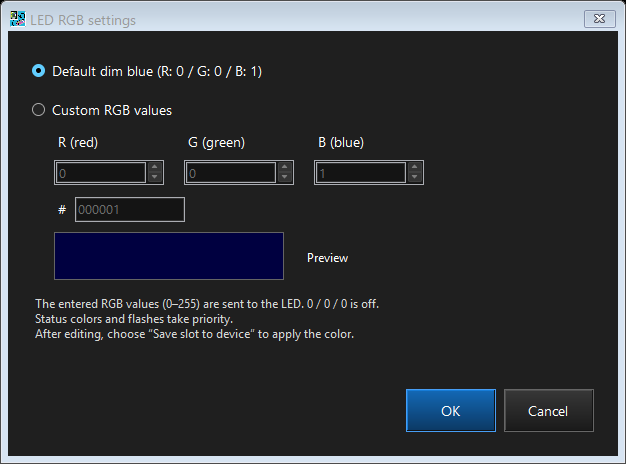
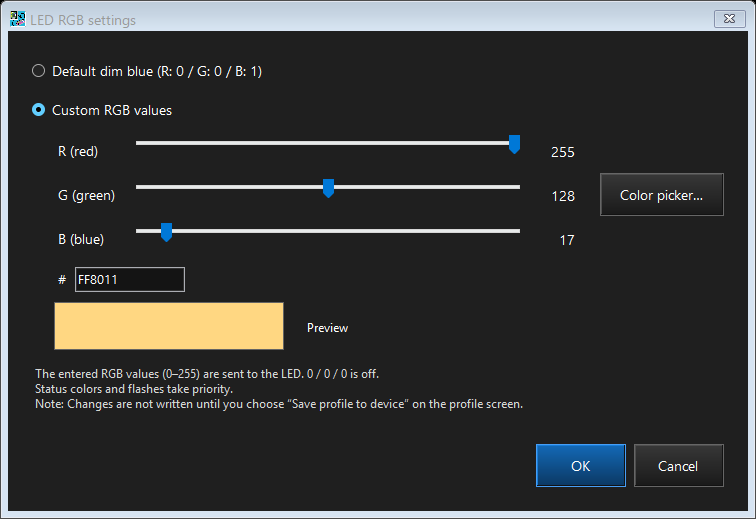
Replace LED RGB spinners with sliders and add a color picker
- Arrange R, G, and B in three horizontal rows, each with a slider and
  numeric readout covering the full 0–255 range.
- Add a "Color picker..." button on the right that opens the Windows
  color chooser with the current RGB values.
- Synchronize accepted colors across sliders, numeric readouts,
  hexadecimal input, and the existing LED preview.
- Preserve the current values when the color picker is cancelled.
- Keep custom controls disabled in default-color mode while maintaining
  readable numeric values and accessible channel labels.
- Adjust the dialog layout for the new controls and retain the shared
  profile-save reminder.
- Update existing LED checks, documentation, and the reference screenshot.

Settings remain a draft until "Save profile to device" is selected.
Firmware, stored RGB values, and the preview correction are unchanged.

Validation:
- 316 Japanese/English LED checks passed.
- 26,370 simulated DPI/layout checks passed.
- Verified native color selection, cancellation, and slider dragging
  through the preview UI.
- Visually inspected Japanese and English dialog captures.

diff --git a/gui/ControllerBridge/LedRgbDialog.cs b/gui/ControllerBridge/LedRgbDialog.cs
@@ -6,30 +6,42 @@ internal sealed partial class LedRgbDialog : Form
 {
     private readonly RadioButton standard = new() { Text = L.T("標準の暗い青（R: 0 / G: 0 / B: 1）", "Default dim blue (R: 0 / G: 0 / B: 1)"), AutoSize = true, Margin = new(4, 8, 4, 8) };
     private readonly RadioButton custom = new() { Text = L.T("RGB値を指定", "Custom RGB values"), AutoSize = true, Margin = new(4, 8, 4, 8) };
-    private readonly NumericUpDown[] values = Enumerable.Range(0, 3).Select(_ => new NumericUpDown { Minimum = 0, Maximum = 255, Width = 110, Anchor = AnchorStyles.Left, Margin = new(4, 6, 16, 6) }).ToArray();
+    private readonly TrackBar[] values = Enumerable.Range(0, 3).Select(_ => new TrackBar {
+        Minimum = 0, Maximum = 255, SmallChange = 1, LargeChange = 16, TickStyle = TickStyle.None,
+        AutoSize = false, Height = 36, Dock = DockStyle.Fill, BackColor = Ui.Background, Margin = new(4, 4, 8, 4)
+    }).ToArray();
+    private readonly Label[] valueLabels = Enumerable.Range(0, 3).Select(_ => Ui.Label("0")).ToArray();
     private readonly TextBox hex = new() { Width = 110, CharacterCasing = CharacterCasing.Upper, MaxLength = 0, Margin = new(0, 6, 12, 6), AccessibleName = L.T("RGBカラーコード（6桁）", "RGB color code (6 digits)") };
     private readonly Label hexError = Ui.Label("", 9);
     private readonly Panel swatch = new() { Width = 230, Height = 48, BorderStyle = BorderStyle.FixedSingle, Margin = new(4, 4, 16, 8) };
-    private readonly Button accept, cancel;
+    private readonly Button accept, cancel, colorPicker;
     private bool updating;
 
     public LedRgbDialog(DeviceProfile profile)
     {
-        using IDisposable formLayout = Ui.Form(this, L.T("LED RGB設定", "LED RGB settings"), new(610, 425));
+        using IDisposable formLayout = Ui.Form(this, L.T("LED RGB設定", "LED RGB settings"), new(740, 480));
         FormBorderStyle = FormBorderStyle.FixedDialog; MaximizeBox = MinimizeBox = false; DoubleBuffered = true;
         BufferedTableLayoutPanel root = new() { Dock = DockStyle.Fill, Padding = new(20), ColumnCount = 1, RowCount = 7 };
         root.ColumnStyles.Add(new(SizeType.Percent, 100));
         for (int i = 0; i < 6; i++) root.RowStyles.Add(new(SizeType.AutoSize));
         root.RowStyles.Add(new(SizeType.Percent, 100));
         root.Controls.Add(standard, 0, 0); root.Controls.Add(custom, 0, 1);
-        BufferedTableLayoutPanel channels = new() { AutoSize = true, ColumnCount = 3, RowCount = 2, Margin = new(22, 0, 0, 0) };
+        BufferedTableLayoutPanel colorControls = new() { AutoSize = true, Dock = DockStyle.Fill, ColumnCount = 2, RowCount = 1, Margin = Padding.Empty };
+        colorControls.ColumnStyles.Add(new(SizeType.Percent, 100)); colorControls.ColumnStyles.Add(new(SizeType.AutoSize));
+        BufferedTableLayoutPanel channels = new() { AutoSize = true, Dock = DockStyle.Fill, ColumnCount = 3, RowCount = 3, Margin = new(22, 0, 12, 0) };
+        channels.ColumnStyles.Add(new(SizeType.AutoSize)); channels.ColumnStyles.Add(new(SizeType.Percent, 100)); channels.ColumnStyles.Add(new(SizeType.Absolute, 48));
         string[] names = [L.T("R（赤）", "R (red)"), L.T("G（緑）", "G (green)"), L.T("B（青）", "B (blue)")];
         for (int i = 0; i < 3; i++)
         {
-            channels.ColumnStyles.Add(new(SizeType.AutoSize)); channels.Controls.Add(Ui.Label(names[i], 10), i, 0);
-            values[i].AccessibleName = names[i]; channels.Controls.Add(values[i], i, 1); values[i].ValueChanged += (_, _) => UpdatePreview();
+            channels.RowStyles.Add(new(SizeType.AutoSize));
+            Label name = Ui.Label(names[i]); name.Anchor = AnchorStyles.Left; channels.Controls.Add(name, 0, i);
+            values[i].AccessibleName = names[i]; channels.Controls.Add(values[i], 1, i); values[i].ValueChanged += (_, _) => UpdatePreview();
+            valueLabels[i].AutoSize = false; valueLabels[i].Size = new(40, 26); valueLabels[i].Anchor = AnchorStyles.Right;
+            valueLabels[i].TextAlign = ContentAlignment.MiddleRight;
+            channels.Controls.Add(valueLabels[i], 2, i);
         }
-        root.Controls.Add(channels, 0, 2);
+        colorPicker = Ui.Button(L.T("カラーピッカー…", "Color picker…"), (_, _) => ChooseColor()); colorPicker.Anchor = AnchorStyles.Right;
+        colorControls.Controls.Add(channels, 0, 0); colorControls.Controls.Add(colorPicker, 1, 0); root.Controls.Add(colorControls, 0, 2);
         FlowLayoutPanel code = new() { AutoSize = true, WrapContents = false, Margin = new(22, 0, 0, 0) };
         Label prefix = Ui.Label("#", 10); prefix.Anchor = AnchorStyles.Left;
         hex.Anchor = AnchorStyles.Left; hexError.Anchor = AnchorStyles.Left; hexError.ForeColor = Color.FromArgb(255, 180, 180);
@@ -57,6 +69,15 @@ internal sealed partial class LedRgbDialog : Form
     {
         if (custom.Checked && !TryReadHex(out _)) throw new InvalidDataException(L.T("RGBコードは6桁の16進数で入力してください。", "Enter the RGB code as 6 hexadecimal digits."));
         profile.SetLedColor(custom.Checked, (byte)values[0].Value, (byte)values[1].Value, (byte)values[2].Value);
+    }
+    private void ChooseColor()
+    {
+        using ColorDialog picker = new() { FullOpen = true, AnyColor = true, Color = Color.FromArgb(values[0].Value, values[1].Value, values[2].Value) };
+        if (picker.ShowDialog(this) != DialogResult.OK) return;
+        updating = true;
+        try { values[0].Value = picker.Color.R; values[1].Value = picker.Color.G; values[2].Value = picker.Color.B; }
+        finally { updating = false; }
+        UpdatePreview();
     }
     private bool TryReadHex(out int rgb)
     {
@@ -90,8 +111,14 @@ internal sealed partial class LedRgbDialog : Form
         updating = true;
         try
         {
-            foreach (NumericUpDown value in values) value.Enabled = custom.Checked;
-            hex.Enabled = custom.Checked;
+            for (int i = 0; i < values.Length; i++)
+            {
+                values[i].Enabled = custom.Checked;
+                valueLabels[i].ForeColor = custom.Checked ? Ui.Ink : Ui.Muted;
+                valueLabels[i].Text = values[i].Value.ToString(CultureInfo.InvariantCulture);
+                valueLabels[i].AccessibleName = values[i].AccessibleName + L.T(" の値: ", " value: ") + valueLabels[i].Text;
+            }
+            hex.Enabled = colorPicker.Enabled = custom.Checked;
             int red = custom.Checked ? (int)values[0].Value : 0, green = custom.Checked ? (int)values[1].Value : 0, blue = custom.Checked ? (int)values[2].Value : 1;
             if (syncHex) hex.Text = $"{red:X2}{green:X2}{blue:X2}";
             swatch.BackColor = LedPreview.Color((byte)red, (byte)green, (byte)blue);

diff --git a/gui/ControllerBridge/LedRgbChecks.cs b/gui/ControllerBridge/LedRgbChecks.cs
@@ -91,15 +91,15 @@ internal sealed partial class LedRgbDialog
         }
         check(dialog.standard.Checked && dialog.values.All(v => !v.Enabled) && !dialog.hex.Enabled && dialog.hex.Text == "000001", "default controls retain dim blue and disable custom entry");
         check(dialog.swatch.BackColor.ToArgb() == Color.FromArgb(0, 0, 64).ToArgb(), "fixed gamma 4 lifts default blue 1 to display 64");
-        check(dialog.hex.PointToScreen(Point.Empty).Y >= dialog.values[0].PointToScreen(new Point(0, dialog.values[0].Height)).Y, "hex entry is directly below the RGB spinners");
+        check(dialog.hex.PointToScreen(Point.Empty).Y >= dialog.values[2].PointToScreen(new Point(0, dialog.values[2].Height)).Y, "hex entry is directly below all three RGB slider rows");
         Capture("led-default.png");
         dialog.CheckSetColor(255, 128, 17);
         check(dialog.values.All(v => v.Enabled && v.Minimum == 0 && v.Maximum == 255), "all channels accept 0 through 255");
-        check(dialog.hex.Text == "FF8011" && dialog.hex.Enabled, "spinner edits synchronize the six-digit uppercase code");
+        check(dialog.hex.Text == "FF8011" && dialog.hex.Enabled, "slider edits synchronize the six-digit uppercase code");
         check(dialog.swatch.BackColor.ToArgb() == Color.FromArgb(255, 215, 130).ToArgb(), "fixed approximation converts unequal RGB channels independently");
         Capture("led-custom.png");
         dialog.hex.SelectAll(); dialog.hex.Paste("000004");
-        check(dialog.values[0].Value == 0 && dialog.values[1].Value == 0 && dialog.values[2].Value == 4 && dialog.accept.Enabled, "pasting 000004 updates all three spinners");
+        check(dialog.values[0].Value == 0 && dialog.values[1].Value == 0 && dialog.values[2].Value == 4 && dialog.accept.Enabled, "pasting 000004 updates all three sliders");
         check(dialog.swatch.BackColor.ToArgb() == Color.FromArgb(0, 0, 90).ToArgb(), "pasted low blue uses fixed gamma 4");
         Capture("led-hex.png");
         DeviceProfile unchanged = original.Clone(); dialog.ApplyTo(unchanged);
@@ -120,7 +120,7 @@ internal sealed partial class LedRgbDialog
         }
         Capture("led-invalid.png");
         dialog.values[0].Value = 1;
-        check(dialog.hex.Text == "01CDEF" && dialog.accept.Enabled && dialog.hexError.Text == "", "editing a spinner replaces an invalid draft with a valid synchronized code");
+        check(dialog.hex.Text == "01CDEF" && dialog.accept.Enabled && dialog.hexError.Text == "", "editing a slider replaces an invalid draft with a valid synchronized code");
         dialog.standard.Checked = true;
         DeviceProfile applied = original.Clone(); dialog.ApplyTo(applied);
         check(applied.SameContent(original), "default selection clears custom data and preserves the profile");

diff --git a/docs/configurator-guide.md b/docs/configurator-guide.md
@@ -67,15 +67,17 @@ The window retains the latest 2,000 rows and reports how many older rows were di
 
 ### LED color
 
-Select a profile, then choose **LED RGB settings** directly below **Delete profile**. **Default dim blue** retains the original ready color and brightness: R=0, G=0, B=1. Choose **Custom RGB values** to enter each channel from 0 to 255. The channel values are sent directly, without brightness scaling or RGB565 quantization. R=0, G=0, B=0 turns off the ready LED.
+Select a profile, then choose **LED RGB settings** directly below **Delete profile**. **Default dim blue** retains the original ready color and brightness: R=0, G=0, B=1. Choose **Custom RGB values** to adjust R, G and B on three horizontal slider rows, each with a numeric readout from 0 to 255. The channel values are sent directly, without brightness scaling or RGB565 quantization. R=0, G=0, B=0 turns off the ready LED.
 
 **OK** changes the selected draft; **Cancel** leaves it unchanged. Choose **Save profile to device** to persist it. The color is shown when that profile is active, input is received, and the output host is ready. Browsing another slot does not change the hardware color. Error, save, waiting, and profile-number indications retain their existing colors and priority. After an indication ends, the active profile color returns.
 
-![Saved LED setting for EGRET Arcade stick](gui-led-rgb-en.png)
+![LED RGB settings with three slider rows and a color-picker button](gui-led-rgb-en.png)
 
-The screenshot shows the saved **EGRET Arcade stick** setting: **Default dim blue**, R=0, G=0, B=1 (#000001).
+The screenshot uses a synthetic custom-color sample: R=255, G=128, B=17 (#FF8011). It does not read or change a physical device.
 
-The `#` field below the R/G/B spinners accepts six hexadecimal digits with or without a leading `#`; the prefix is removed automatically. For example, paste `000004` or `#000004` to set R=0, G=0, B=4. Uppercase and lowercase letters are accepted. Editing either the code or a spinner updates the other controls and the preview. Incomplete, invalid or overlong codes cannot be confirmed; they are not silently shortened into another color. **Cancel** remains available while editing an incomplete code.
+The **Color picker…** button on the right opens the Windows color chooser with the current RGB values. Confirming a color updates all three sliders, numeric readouts, the hexadecimal code and the preview. Cancelling the chooser preserves the previous values. Custom controls, including the picker, are enabled when **Custom RGB values** is selected.
+
+The `#` field below the R/G/B sliders accepts six hexadecimal digits with or without a leading `#`; the prefix is removed automatically. For example, paste `000004` or `#000004` to set R=0, G=0, B=4. Uppercase and lowercase letters are accepted. Editing either the code or a slider updates the other controls and the preview. Incomplete, invalid or overlong codes cannot be confirmed; they are not silently shortened into another color. **Cancel** remains available while editing an incomplete code.
 
 The single preview uses gamma 4.0 internally, following the user's comparison with the actual LED. There is no gamma control, explanatory curve text or uncorrected swatch. Earlier PC preview preferences are ignored. The entered code and channel bytes remain exact; this display correction does not alter the profile or firmware output. The preview itself does not require a firmware change. This release bundles 0.20.1 for the expanded rapid-fire range and button shift; install the matching firmware.
 

diff --git a/docs/verification.md b/docs/verification.md
@@ -2,6 +2,18 @@
 
 Applies to ControllerBridge Windows configurator and normal firmware 0.20.1. This update expands rapid fire to 1–60 cycles per second with a new starting rate of 20, while retaining saved rates. The button-only shifted page, AND modifiers, inherited mappings and version-6 profile/bank format remain supported. JSON exports use version 3 and retain version-2 import support. Dated entries below describe their own builds and checks; older hashes and measurements are historical. Current allocation figures are in [Current normal-build memory](#current-normal-build-memory).
 
+## 2026-11-01: LED RGB slider rows and color picker
+
+The LED dialog now uses one horizontal row per RGB channel, with a 0–255 slider and numeric readout. A **Color picker…** button on the right opens the Windows color chooser initialized from the current raw channel values. Accepting a color updates the three sliders, readouts, hexadecimal code and existing preview; cancellation preserves the draft. Standard-color mode disables custom entry but keeps the numeric readouts legible. The shared profile-save reminder and draft-only OK behavior remain in place.
+
+The final self-contained EXE passed **158 existing LED checks per language, 316 total**. These cover exact RGB bytes, default/custom/off behavior, hexadecimal input and paste, invalid input, preview conversion, cancellation, profile serialization, duplicate and backup/restore behavior, and control bounds. Japanese and English captures were visually inspected. Reports are in `build/led-sliders/checks-final/summary.json`.
+
+The existing DPI runner passed **13,185 checks per language, 26,370 total**, including simulated transitions 96 → 120 → 144 → 192 → 96 → 192 → 96 and bounded-window checks. The slider rows, picker button, readouts, reminder and actions were also inspected in the generated captures. Reports are in `build/led-sliders/dpi/summary.json`; Windows display settings were not changed.
+
+The native Windows picker was also exercised through the preview UI: it opened with RGB 0/0/1; accepting red produced 255/0/0 and `FF0000`; selecting blue and cancelling retained red. Dragging the red slider from 255 to 127 updated the readout and code to `7F0000`. The containing LED dialog was then cancelled, leaving the preview profile unchanged. This UI run used synthetic preview data, without opening a physical USB device.
+
[1 lines of base64/hex data omitted]
+
 ## 2026-11-01: profile save wording and shared settings reminder
 
 The profile action is now **Save profile to device** (Japanese: **プロファイルをデバイスに保存**). Unsaved-edit, duplicate, import and mouse-mapping guidance uses the same action name. The rapid-fire dialog title and heading are now **Rapid fire settings**. Its Japanese range and unavailable-button guidance follows the requested wording, and the former held-button explanatory line has been removed from that dialog.

diff --git a/docs/status-led.md b/docs/status-led.md
@@ -25,7 +25,9 @@ Editing affects a draft until **Save profile to device**. The active saved profi
 
 ## RGB code entry and preview
 
-A text box prefixed by a separate `#` label sits below the three channel spinners. It accepts exactly six hexadecimal digits, supports native paste and either letter case, and automatically removes one optional leading `#`. Code edits update the R/G/B controls; spinner edits update the code. For example, `000004` or `#000004` means R=0, G=0, B=4. Incomplete, invalid and overlong strings disable OK and leave the last valid preview unchanged. They cannot be committed or silently truncated. Selecting the default color shows `000001` and disables custom entry.
+R, G and B use three horizontal slider rows, with a numeric readout on each row. A text box prefixed by a separate `#` label sits below them. It accepts exactly six hexadecimal digits, supports native paste and either letter case, and automatically removes one optional leading `#`. Code edits update the R/G/B sliders and readouts; slider edits update the code. For example, `000004` or `#000004` means R=0, G=0, B=4. Incomplete, invalid and overlong strings disable OK and leave the last valid preview unchanged. They cannot be committed or silently truncated. Selecting the default color shows `000001` and disables custom entry while keeping the numeric readouts legible.
+
+**Color picker…**, on the right, opens the Windows color chooser with the current raw RGB bytes. Confirming a color synchronizes the sliders, numbers, code and preview. Cancelling the chooser leaves the draft untouched. The picker is enabled only for custom RGB; neither picker confirmation nor the LED dialog's OK button saves to the device.
 
 The single preview uses a fixed internal gamma of **4.0**, selected after the user's comparison with the physical LED. Each input byte `v` maps to `round(255 * (v / 255)^(1 / 4.0))` for screen display. There is no adjustable curve, explanatory curve text or uncorrected swatch in the dialog. The previous `%LOCALAPPDATA%/ControllerBridge/led-preview.json` preference is no longer read or written; an existing file is left unused.
 

diff --git a/docs/README.md b/docs/README.md
@@ -14,4 +14,4 @@ These documents describe the current Windows configurator 0.20.1 and normal firm
 | [Compatibility](compatibility.md) | Tested controllers, unsupported cases, and unresolved limitations |
 | [Verification](verification.md) | Current build checks, current-format validation, empty startup, screenshots, and memory budget |
 
-The rapid-fire and button-shift screenshots use the 0.20.1 GUI with the shared profile-save reminder. The general main-window and firmware-update screenshots retain their 0.19.0 reference images; the axis reference image is from 0.16.0, before the shared reminder was added. Their version labels and older save-button wording describe those captures. Current profile editing uses **Save profile to device**.
+The LED RGB, rapid-fire and button-shift screenshots use the 0.20.1 GUI with the shared profile-save reminder. The LED image includes three slider rows and the color-picker button. The general main-window and firmware-update screenshots retain their 0.19.0 reference images; the axis reference image is from 0.16.0, before the shared reminder was added. Their version labels and older save-button wording describe those captures. Current profile editing uses **Save profile to device**.
